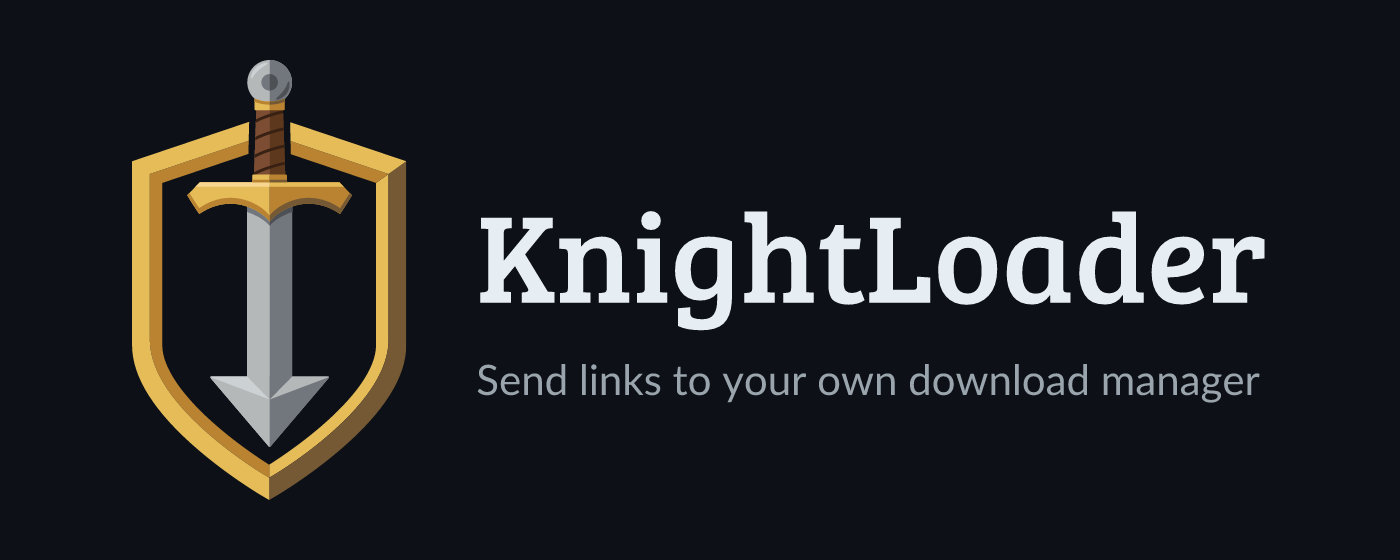
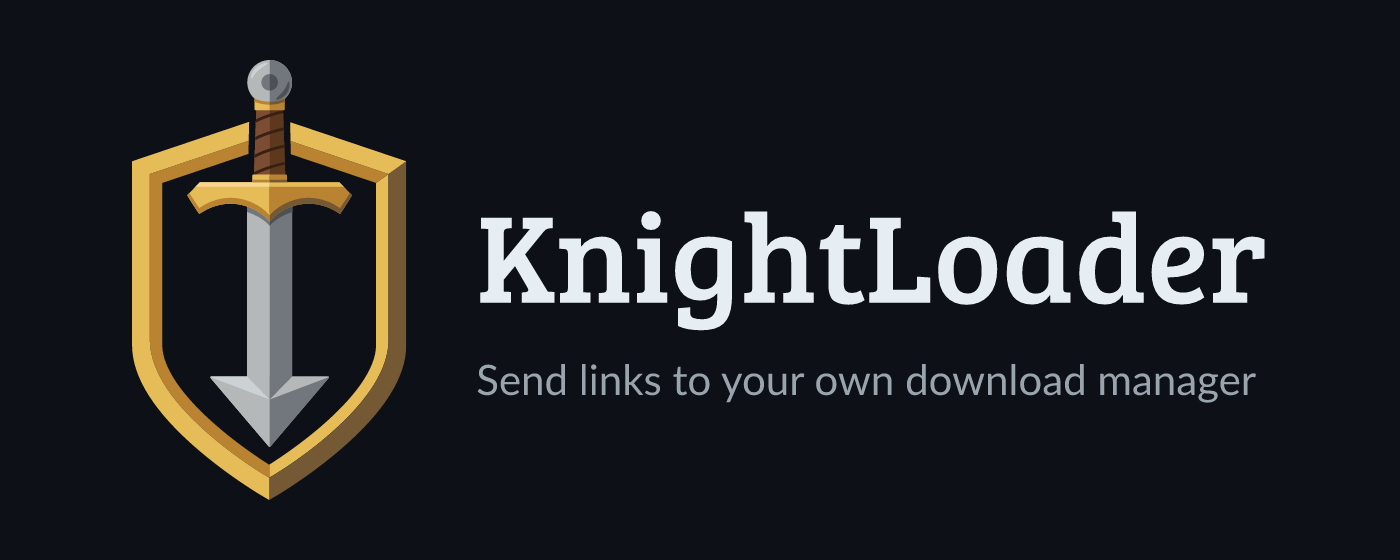
store screenshots, text set by resvg, and the measurement b1f31c92 should have cited
The numbers in b1f31c92 do not hold up. They came from clicking the popup
through xdotool, and that setup had three faults found afterwards: the
click could land while the send button was still disabled, a Playwright
session attached to the service worker kept it awake in the runs meant to
test it asleep, and a worker reloaded into an existing profile kept its old
scripts. The conclusion survives a clean test; the figures do not.

The clean test: nothing attached to the worker, the worker asleep before
every trial (checked via /json/list alone), an extension page sending one
unique link to one instance. Send and close the page at once: 0 of 3
arrived. Await the worker's reply, then close: 3 of 3. popup.js and
check-popup-send.mjs now cite that instead.

Four 1280x800 screenshots in extension/store/screenshots: sending a page,
a right-clicked link ("Send this link"), a caught Click'n'Load batch
counting down, and the options page with the group. Each is cropped below
the browser toolbar under a caption band, so no browser interface appears.

gen-store-assets.mjs sets its text as SVG <text> with the font files
instead of glyph outlines. Outlines drew broken letters depending on the
position: one path per line stopped 296 px into "Right-click a link...",
and one path per glyph still drew the "n" of "Connect" as a stub.

Changed region(s): [[0.4914, 0.6375, 0.9214, 0.7286]]

diff --git a/extension/src/popup.js b/extension/src/popup.js
@@ -440,8 +440,10 @@ sendBtn.addEventListener('click', async () => {
  * on the line after sendMessage, and whenever the worker was asleep - the normal
  * state half a minute after anything last happened - the worker had not started
  * by the time the window was gone, and the send vanished with no badge and
- * nothing at the instance. Measured 2026-09-17 on the same press, page and
- * instance: worker asleep, the instance's tasks went 0 -> 0; awake, 0 -> 1.
+ * nothing at the instance. Measured 2026-09-17 with the worker asleep before
+ * every trial and nothing attached to it, an extension page sending a unique
+ * link to one instance: send and close at once, 0 of 3 arrived; wait for the
+ * reply and then close, 3 of 3.
  * The worker answers straight away (see its onMessage listener), so this waits
  * for a start-up and a reply, never for the relay.
  */
